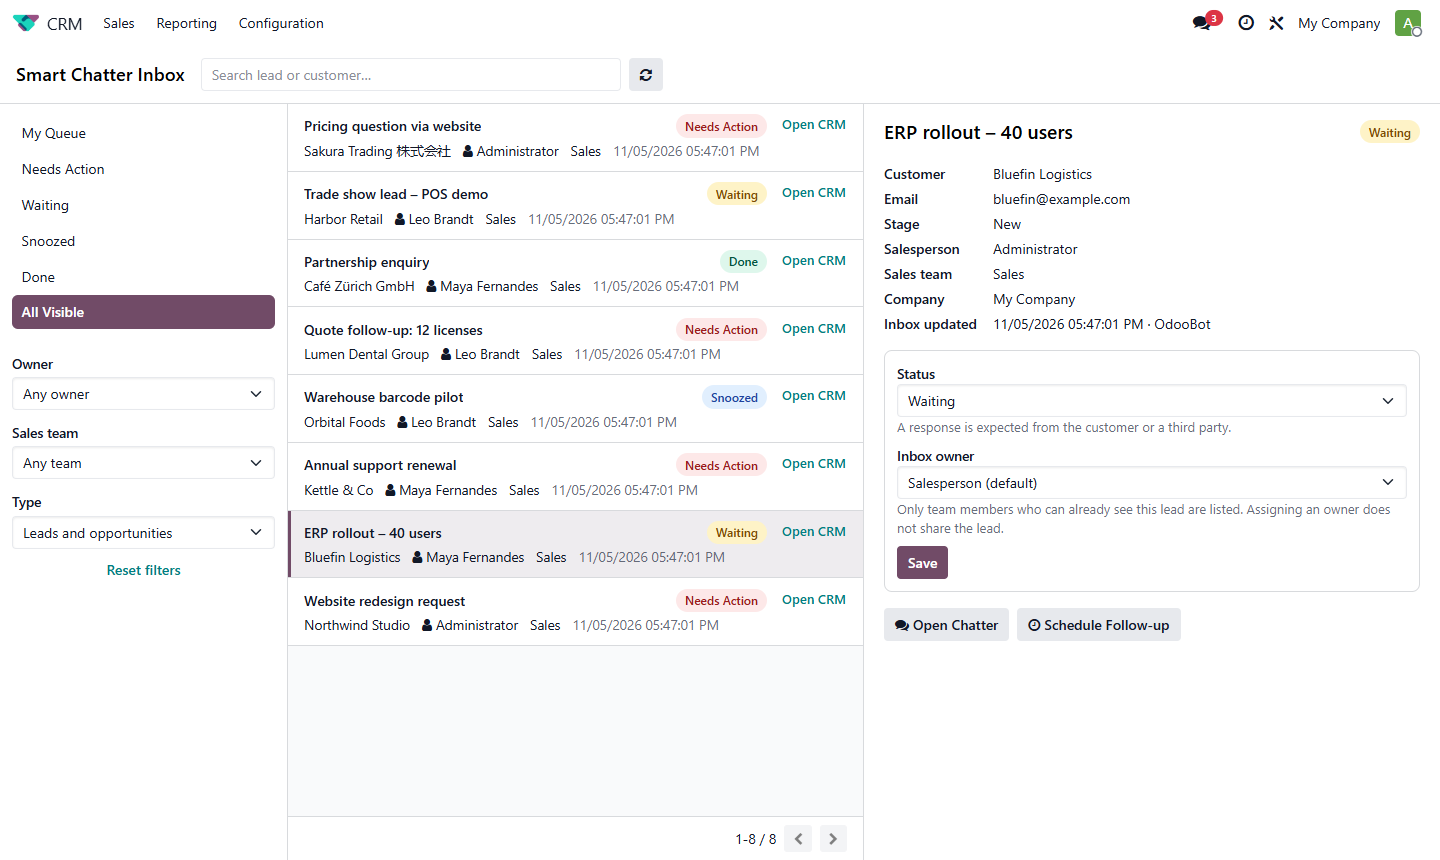
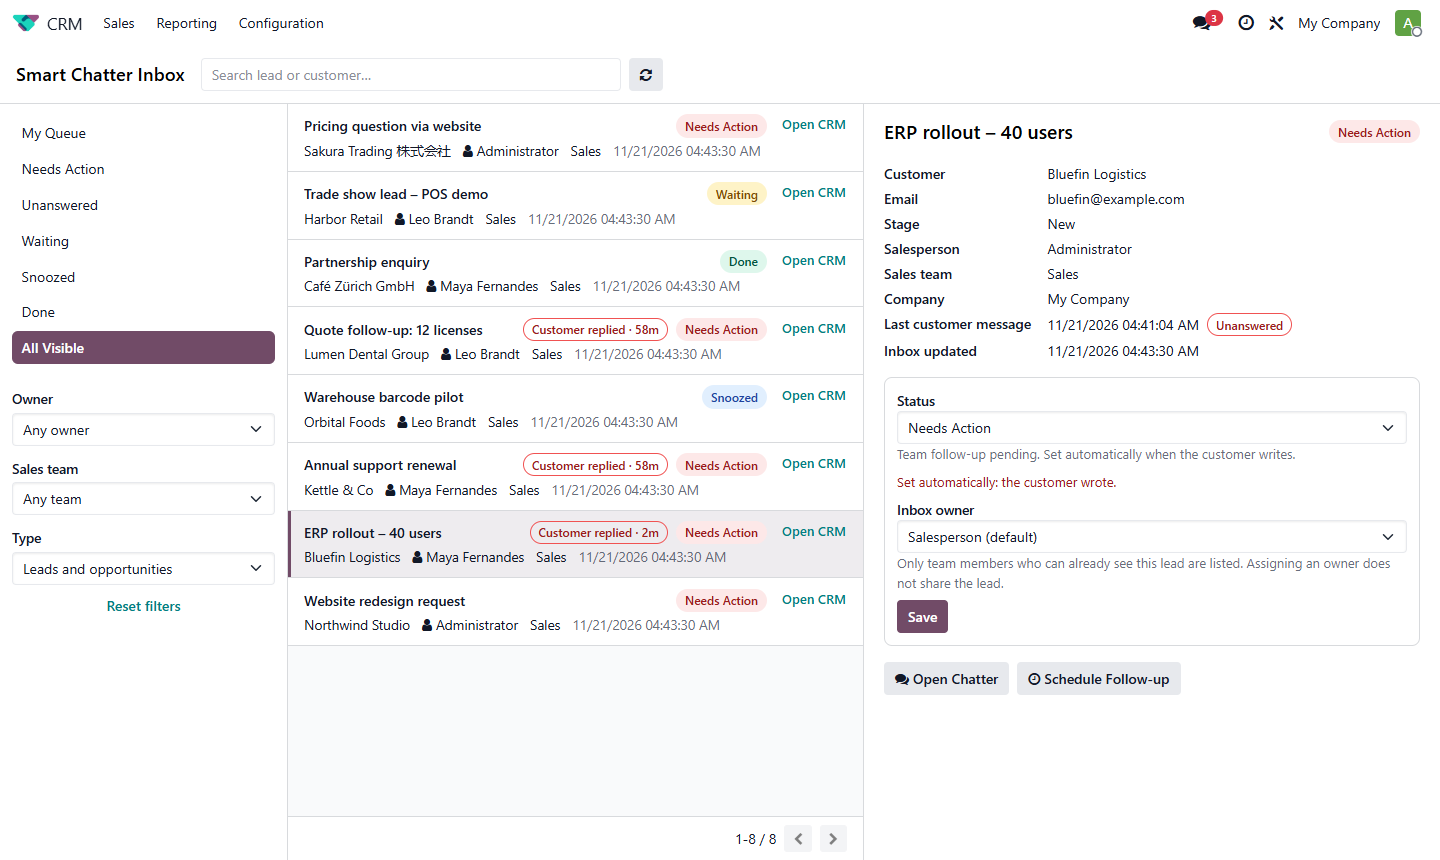
Store listing: Unanswered Leads name, reply-detection demo
- Name "CRM Follow Up Inbox | Unanswered Leads, Reminder & Snooze" and
  summary with "unanswered customer emails" / "unanswered leads"
- Store page: new DETECT demo (gif_reply.gif, a real customer email through
  the mail gateway), Unanswered feature card, two comparison rows, FAQ
  rewritten (how detection works, 17/18 out-of-office caveat), security
  text no longer claims zero privileged code
- hero.png subtitle and numbers.png stats (55+ tests, 4 Odoo versions)
- All GIFs and screenshots re-recorded on 19 with the Unanswered filter
- record_gifs.py: reply scene, snooze date relative to today
- seed_demo.py: restore customer-reply flags on re-run instead of posting
  duplicate emails

diff --git a/sd_smart_chatter_inbox/static/description/index.html b/sd_smart_chatter_inbox/static/description/index.html
@@ -5,8 +5,8 @@
 <!-- ============ HERO ============ -->
 <section class="oe_container" style="padding: 0 0 8px;">
     <img src="hero.png" alt="CRM Follow Up Inbox for Odoo: never lose a lead follow up again. $19 one-time." style="width: 100%; display: block; border-radius: 16px;"/>
-    <h1 style="text-align: center; color: #111827; font-size: 32px; font-weight: 800; margin: 26px 0 6px;">CRM Follow Up Inbox for Odoo: never miss a lead follow up</h1>
-    <p style="text-align: center; color: #4b5563; font-size: 17px; line-height: 1.6; max-width: 820px; margin: 0 auto;">One follow up queue for your whole sales team. See which leads need a reply from you, which are waiting for the customer, snooze a lead until the day you need it, and assign a follow up owner. Works inside Odoo CRM.</p>
+    <h1 style="text-align: center; color: #111827; font-size: 32px; font-weight: 800; margin: 26px 0 6px;">CRM Follow Up Inbox for Odoo: no more unanswered leads</h1>
+    <p style="text-align: center; color: #4b5563; font-size: 17px; line-height: 1.6; max-width: 820px; margin: 0 auto;">One lead follow up queue for your whole sales team. When a customer emails, the lead jumps back to <b>Needs Action</b> and appears in the <b>Unanswered</b> list. When your team replies, it moves to <b>Waiting</b>. Snooze a lead until the day you need it and assign a follow up owner. Works inside Odoo CRM.</p>
     <div style="max-width: 1000px; margin: 22px auto 0; border: 1px solid #c7d2fe; border-radius: 14px; padding: 8px; box-shadow: 0 10px 30px rgba(49,46,129,.18);">
         <img src="gif_filters.gif" alt="Odoo CRM lead follow up queue: search and filter leads by status, owner and team" style="width: 100%; display: block; border-radius: 8px;"/>
     </div>
@@ -33,7 +33,7 @@
             <div style="height: 100%; border: 1px solid #e0e7ff; border-top: 4px solid #4f46e5; border-radius: 12px; padding: 22px;">
                 <p style="font-size: 30px; margin: 0 0 8px;">&#128101;</p>
                 <h3 style="font-size: 20px; font-weight: 700; color: #312e81; margin: 0 0 8px;">Sales teams</h3>
-                <p style="color: #4b5563; font-size: 15px; line-height: 1.6; margin: 0;">Everyone sees which leads are waiting on <b>us</b> and which are waiting on the <b>customer</b>. No more "did anyone reply to this?"</p>
+                <p style="color: #4b5563; font-size: 15px; line-height: 1.6; margin: 0;">Everyone sees which leads are waiting on <b>us</b> and which are waiting on the <b>customer</b>. Customer replies are flagged automatically, so nobody has to ask "did anyone reply to this?"</p>
             </div>
         </div>
         <div class="col-md-4" style="padding: 8px;">
@@ -59,22 +59,29 @@
     <h2 style="text-align: center; color: #111827; font-size: 30px; font-weight: 700; margin: 4px 0 6px;">See it actually happen</h2>
     <p style="text-align: center; color: #4b5563; font-size: 16px; margin: 0 0 28px;">Recorded in a real Odoo database. No mock-ups.</p>
 
+    <div style="border: 1px solid #e0e7ff; border-left: 5px solid #dc2626; border-radius: 12px; padding: 22px; margin-bottom: 26px;">
+        <p style="margin: 0;"><span style="display: inline-block; border: 2px solid #dc2626; color: #dc2626; font-weight: 700; font-size: 13px; padding: 2px 12px; border-radius: 14px;">1 &middot; DETECT</span></p>
+        <h3 style="font-size: 22px; font-weight: 700; color: #111827; margin: 12px 0 6px;">Unanswered leads come back by themselves</h3>
+        <p style="color: #4b5563; font-size: 15px; line-height: 1.6; margin: 0 0 16px;">A customer replies to a lead that was Waiting. The email arrives through Odoo's normal incoming mail, and the lead goes straight back to <b>Needs Action</b> with a <b>Customer replied</b> flag and how long ago they wrote. When your team answers from the chatter, it moves to <b>Waiting</b> again. No one has to triage it by hand.</p>
+        <img src="gif_reply.gif" alt="Odoo CRM unanswered leads: a customer email moves the lead back to Needs Action automatically" style="width: 100%; border-radius: 8px; border: 1px solid #e5e7eb;"/>
+    </div>
+
     <div style="border: 1px solid #e0e7ff; border-left: 5px solid #4f46e5; border-radius: 12px; padding: 22px; margin-bottom: 26px;">
-        <p style="margin: 0;"><span style="display: inline-block; border: 2px solid #4f46e5; color: #4f46e5; font-weight: 700; font-size: 13px; padding: 2px 12px; border-radius: 14px;">1 &middot; TRIAGE</span></p>
+        <p style="margin: 0;"><span style="display: inline-block; border: 2px solid #4f46e5; color: #4f46e5; font-weight: 700; font-size: 13px; padding: 2px 12px; border-radius: 14px;">2 &middot; TRIAGE</span></p>
         <h3 style="font-size: 22px; font-weight: 700; color: #111827; margin: 12px 0 6px;">Set a status and an owner in two clicks</h3>
         <p style="color: #4b5563; font-size: 15px; line-height: 1.6; margin: 0 0 16px;">Select a lead, choose <b>Waiting</b>, pick a team-mate as follow up owner and save. It moves out of Needs Action straight away.</p>
         <img src="gif_triage.gif" alt="Set lead follow up status and follow up owner in Odoo CRM" style="width: 100%; border-radius: 8px; border: 1px solid #e5e7eb;"/>
     </div>
 
     <div style="border: 1px solid #e0e7ff; border-left: 5px solid #2563eb; border-radius: 12px; padding: 22px; margin-bottom: 26px;">
-        <p style="margin: 0;"><span style="display: inline-block; border: 2px solid #2563eb; color: #2563eb; font-weight: 700; font-size: 13px; padding: 2px 12px; border-radius: 14px;">2 &middot; SNOOZE</span></p>
+        <p style="margin: 0;"><span style="display: inline-block; border: 2px solid #2563eb; color: #2563eb; font-weight: 700; font-size: 13px; padding: 2px 12px; border-radius: 14px;">3 &middot; SNOOZE</span></p>
         <h3 style="font-size: 22px; font-weight: 700; color: #111827; margin: 12px 0 6px;">Snooze a lead: a follow up reminder for the right day</h3>
         <p style="color: #4b5563; font-size: 15px; line-height: 1.6; margin: 0 0 16px;">Pick a date and time in your own time zone. When it is due, the lead returns to Needs Action by itself. No scheduled job to configure.</p>
         <img src="gif_snooze.gif" alt="Snooze an Odoo CRM lead until a date and time: follow up reminder" style="width: 100%; border-radius: 8px; border: 1px solid #e5e7eb;"/>
     </div>
 
     <div style="border: 1px solid #e0e7ff; border-left: 5px solid #16a34a; border-radius: 12px; padding: 22px; margin-bottom: 26px;">
-        <p style="margin: 0;"><span style="display: inline-block; border: 2px solid #16a34a; color: #16a34a; font-weight: 700; font-size: 13px; padding: 2px 12px; border-radius: 14px;">3 &middot; ACT</span></p>
+        <p style="margin: 0;"><span style="display: inline-block; border: 2px solid #16a34a; color: #16a34a; font-weight: 700; font-size: 13px; padding: 2px 12px; border-radius: 14px;">4 &middot; ACT</span></p>
         <h3 style="font-size: 22px; font-weight: 700; color: #111827; margin: 12px 0 6px;">Schedule a follow up activity or reply in the chatter</h3>
         <p style="color: #4b5563; font-size: 15px; line-height: 1.6; margin: 0 0 16px;"><b>Schedule Follow-up</b> opens Odoo's own activity dialog. <b>Open Chatter</b> takes you to the lead, where you reply exactly as you do today.</p>
         <img src="gif_chatter.gif" alt="Schedule a follow up activity and open the lead chatter in Odoo" style="width: 100%; border-radius: 8px; border: 1px solid #e5e7eb;"/>
@@ -82,7 +89,7 @@
 
     <div class="row" style="margin: 0; border: 1px solid #e0e7ff; border-left: 5px solid #db2777; border-radius: 12px; padding: 22px 10px; align-items: center;">
         <div class="col-md-6" style="padding: 12px;">
-            <p style="margin: 0;"><span style="display: inline-block; border: 2px solid #db2777; color: #db2777; font-weight: 700; font-size: 13px; padding: 2px 12px; border-radius: 14px;">4 &middot; ON THE GO</span></p>
+            <p style="margin: 0;"><span style="display: inline-block; border: 2px solid #db2777; color: #db2777; font-weight: 700; font-size: 13px; padding: 2px 12px; border-radius: 14px;">5 &middot; ON THE GO</span></p>
             <h3 style="font-size: 22px; font-weight: 700; color: #111827; margin: 12px 0 6px;">Works on phones and tablets</h3>
             <p style="color: #4b5563; font-size: 15px; line-height: 1.6; margin: 0;">Three panes on desktop, a filter drawer on tablets, and a simple list-then-details flow on phones. Clear your queue from anywhere.</p>
         </div>
@@ -107,7 +114,7 @@
             <div style="height: 100%; border: 2px solid #c7d2fe; border-radius: 12px; padding: 22px;">
                 <p style="font-size: 40px; font-weight: 800; margin: 0; color: #4f46e5; line-height: 1;">02</p>
                 <h3 style="color: #111827; font-size: 20px; font-weight: 700; margin: 10px 0 6px;">Fill the queue</h3>
-                <p style="color: #4b5563; font-size: 15px; line-height: 1.6; margin: 0;">Turn on <b>Include untriaged leads</b> in CRM Settings, or set a status on the <b>Smart Inbox</b> tab of any lead.</p>
+                <p style="color: #4b5563; font-size: 15px; line-height: 1.6; margin: 0;">Customer emails add leads to the queue by themselves. To start with every open lead, turn on <b>Include untriaged leads</b> in CRM Settings.</p>
             </div>
         </div>
         <div class="col-md-4" style="padding: 8px;">
@@ -122,11 +129,14 @@
 
 <!-- ============ FEATURES ============ -->
 <section class="oe_container" style="padding: 44px 12px 8px;">
-    <h2 style="text-align: center; color: #111827; font-size: 30px; font-weight: 700; margin: 0 0 6px;">Lead follow up features: reminder, snooze, owner</h2>
+    <h2 style="text-align: center; color: #111827; font-size: 30px; font-weight: 700; margin: 0 0 6px;">Lead follow up features: unanswered leads, reminder, snooze, owner</h2>
     <p style="text-align: center; color: #4b5563; font-size: 16px; margin: 0 0 24px;">Nothing it doesn't.</p>
     <div class="row" style="margin: 0;">
         <div class="col-md-4 col-sm-6" style="padding: 8px;"><div style="height: 100%; border: 1px solid #e5e7eb; border-radius: 12px; padding: 18px;">
-            <h4 style="font-size: 17px; font-weight: 700; color: #111827; margin: 0 0 6px;"><span style="color: #dc2626;">&#9679;</span> Four clear statuses</h4>
+            <h4 style="font-size: 17px; font-weight: 700; color: #111827; margin: 0 0 6px;"><span style="color: #dc2626;">&#9679;</span> Unanswered leads, detected automatically</h4>
+            <p style="color: #4b5563; font-size: 14px; line-height: 1.6; margin: 0;">A customer email moves the lead to Needs Action and the <b>Unanswered</b> list. Your team's reply moves it to Waiting. Notes, automated emails and mass mailings are ignored.</p></div></div>
+        <div class="col-md-4 col-sm-6" style="padding: 8px;"><div style="height: 100%; border: 1px solid #e5e7eb; border-radius: 12px; padding: 18px;">
+            <h4 style="font-size: 17px; font-weight: 700; color: #111827; margin: 0 0 6px;"><span style="color: #d97706;">&#9679;</span> Four clear statuses</h4>
             <p style="color: #4b5563; font-size: 14px; line-height: 1.6; margin: 0;">Needs Action, Waiting, Done and Snoozed, plus quick views for <b>My Queue</b> and <b>All Visible</b>.</p></div></div>
         <div class="col-md-4 col-sm-6" style="padding: 8px;"><div style="height: 100%; border: 1px solid #e5e7eb; border-radius: 12px; padding: 18px;">
             <h4 style="font-size: 17px; font-weight: 700; color: #111827; margin: 0 0 6px;"><span style="color: #4f46e5;">&#9679;</span> Follow up owner</h4>
@@ -144,9 +154,6 @@
             <h4 style="font-size: 17px; font-weight: 700; color: #111827; margin: 0 0 6px;"><span style="color: #7c3aed;">&#9679;</span> Status on the lead form</h4>
             <p style="color: #4b5563; font-size: 14px; line-height: 1.6; margin: 0;">A <b>Smart Inbox</b> tab on every lead lets you triage it without leaving the form.</p></div></div>
         <div class="col-md-4 col-sm-6" style="padding: 8px;"><div style="height: 100%; border: 1px solid #e5e7eb; border-radius: 12px; padding: 18px;">
-            <h4 style="font-size: 17px; font-weight: 700; color: #111827; margin: 0 0 6px;"><span style="color: #dc2626;">&#9679;</span> Keyboard friendly</h4>
-            <p style="color: #4b5563; font-size: 14px; line-height: 1.6; margin: 0;">Arrow keys move through the list, focus is always visible, and screen readers get proper labels.</p></div></div>
-        <div class="col-md-4 col-sm-6" style="padding: 8px;"><div style="height: 100%; border: 1px solid #e5e7eb; border-radius: 12px; padding: 18px;">
             <h4 style="font-size: 17px; font-weight: 700; color: #111827; margin: 0 0 6px;"><span style="color: #4f46e5;">&#9679;</span> Multi-company aware</h4>
             <p style="color: #4b5563; font-size: 14px; line-height: 1.6; margin: 0;">Only companies enabled in the company switcher are shown, and the company filter respects them.</p></div></div>
         <div class="col-md-4 col-sm-6" style="padding: 8px;"><div style="height: 100%; border: 1px solid #e5e7eb; border-radius: 12px; padding: 18px;">
@@ -157,7 +164,7 @@
 
 <!-- ============ NUMBERS ============ -->
 <section class="oe_container" style="padding: 44px 12px 8px;">
-    <img src="numbers.png" alt="$19 one-time, under 100 ms server time per page, under 10 SQL queries per page, 40 automated tests, 0 sudo calls" style="width: 100%; display: block; border-radius: 16px;"/>
+    <img src="numbers.png" alt="$19 one-time, under 100 ms server time per page, under 10 SQL queries per page, 55+ automated tests, 4 Odoo versions: 17 to 20" style="width: 100%; display: block; border-radius: 16px;"/>
     <p style="text-align: center; color: #6b7280; font-size: 13px; margin: 10px 0 0;">Measured on a test database with 10,000 opportunities and 100,000 chatter messages (server-side, p95).</p>
 </section>
 
@@ -167,7 +174,7 @@
         <div class="col-md-6" style="padding: 12px;">
             <p style="color: #4f46e5; font-weight: 700; letter-spacing: .12em; font-size: 13px; margin: 0;">SECURITY &amp; GOVERNANCE</p>
             <h2 style="color: #111827; font-size: 28px; font-weight: 700; margin: 6px 0 12px;">It never shows more than Odoo already allows</h2>
-            <p style="color: #4b5563; font-size: 15px; line-height: 1.65; margin: 0;">Every list, count, filter and update runs as the logged-in user with your normal access rights and record rules. The app has no superuser shortcuts, so a salesperson who can only see their own leads sees only their own leads here too.</p>
+            <p style="color: #4b5563; font-size: 15px; line-height: 1.65; margin: 0;">Every list, count, filter and update runs as the logged-in user with your normal access rights and record rules, so a salesperson who can only see their own leads sees only their own leads here too. The one privileged step is reply detection: when a message is posted on a lead, it updates that lead's own follow up status, and shows nothing to anyone.</p>
         </div>
         <div class="col-md-6" style="padding: 12px;">
             <div style="border: 1px solid #e0e7ff; border-left: 4px solid #4f46e5; border-radius: 10px; padding: 11px 14px; margin-bottom: 8px; color: #1f2937; font-size: 15px;">&#128274; Respects record rules, multi-company and team visibility</div>
@@ -190,6 +197,8 @@
                 <th style="padding: 14px; text-align: center; color: #312e81; font-weight: 700;">With this app</th>
             </tr>
             <tr style="border-bottom: 1px solid #e5e7eb;"><td style="padding: 12px 14px; color: #1f2937;">Which conversations are waiting on us?</td><td style="padding: 12px 14px; text-align: center; color: #9ca3af;">Open each lead</td><td style="padding: 12px 14px; text-align: center; color: #15803d; font-weight: 700;">&#10003; Needs Action list</td></tr>
+            <tr style="border-bottom: 1px solid #e5e7eb;"><td style="padding: 12px 14px; color: #1f2937;">Which leads did the customer reply to?</td><td style="padding: 12px 14px; text-align: center; color: #9ca3af;">Open each lead</td><td style="padding: 12px 14px; text-align: center; color: #15803d; font-weight: 700;">&#10003; Unanswered list</td></tr>
+            <tr style="border-bottom: 1px solid #e5e7eb;"><td style="padding: 12px 14px; color: #1f2937;">Move a lead back when the customer writes?</td><td style="padding: 12px 14px; text-align: center; color: #9ca3af;">By hand</td><td style="padding: 12px 14px; text-align: center; color: #15803d; font-weight: 700;">&#10003; Automatic</td></tr>
             <tr style="border-bottom: 1px solid #e5e7eb;"><td style="padding: 12px 14px; color: #1f2937;">Which ones are waiting on the customer?</td><td style="padding: 12px 14px; text-align: center; color: #9ca3af;">Not tracked</td><td style="padding: 12px 14px; text-align: center; color: #15803d; font-weight: 700;">&#10003; Waiting list</td></tr>
             <tr style="border-bottom: 1px solid #e5e7eb;"><td style="padding: 12px 14px; color: #1f2937;">Who is following this up?</td><td style="padding: 12px 14px; text-align: center; color: #9ca3af;">Salesperson only</td><td style="padding: 12px 14px; text-align: center; color: #15803d; font-weight: 700;">&#10003; Separate follow up owner</td></tr>
             <tr style="border-bottom: 1px solid #e5e7eb;"><td style="padding: 12px 14px; color: #1f2937;">Hide it until next Tuesday at 10:00?</td><td style="padding: 12px 14px; text-align: center; color: #9ca3af;">&#10007;</td><td style="padding: 12px 14px; text-align: center; color: #15803d; font-weight: 700;">&#10003; Snooze</td></tr>
@@ -213,7 +222,7 @@
 <!-- ============ ALSO KNOWN AS ============ -->
 <section class="oe_container" style="padding: 32px 12px 0;">
     <div style="max-width: 880px; margin: 0 auto; border: 1px dashed #c7d2fe; border-radius: 12px; padding: 16px 18px;">
-        <p style="color: #4b5563; font-size: 15px; line-height: 1.7; margin: 0;"><b style="color: #312e81;">Looking for something else by name?</b> Teams use this app as a <b>sales follow up tracker</b>, <b>lead follow up reminder</b>, <b>CRM to-do list</b>, <b>shared sales inbox</b>, <b>lead snooze</b>, <b>follow up management</b> and <b>CRM activity queue</b> for Odoo 17, 18, 19 and 20, Community and Enterprise.</p>
+        <p style="color: #4b5563; font-size: 15px; line-height: 1.7; margin: 0;"><b style="color: #312e81;">Looking for something else by name?</b> Teams use this app as an <b>unanswered leads list</b>, <b>customer reply tracker</b>, <b>sales follow up tracker</b>, <b>lead follow up reminder</b>, <b>CRM to-do list</b>, <b>shared sales inbox</b>, <b>lead snooze</b>, <b>follow up management</b> and <b>CRM activity queue</b> for Odoo 17, 18, 19 and 20, Community and Enterprise.</p>
     </div>
 </section>
 
@@ -222,12 +231,16 @@
     <h2 style="text-align: center; color: #111827; font-size: 28px; font-weight: 700; margin: 0 0 22px;">FAQ</h2>
     <div style="max-width: 880px; margin: 0 auto;">
         <div style="border: 1px solid #e5e7eb; border-radius: 12px; padding: 16px 18px; margin-bottom: 10px;">
-            <p style="font-weight: 700; color: #312e81; font-size: 16px; margin: 0 0 6px;">Does it read or send emails?</p>
-            <p style="color: #4b5563; font-size: 15px; line-height: 1.6; margin: 0;">No. It does not connect to Gmail, Outlook or IMAP and sends nothing. Your team replies in the lead's chatter exactly as before. The statuses are your team's own workflow; the app does not guess whether an email was answered.</p>
+            <p style="font-weight: 700; color: #312e81; font-size: 16px; margin: 0 0 6px;">How does it know a lead is unanswered?</p>
+            <p style="color: #4b5563; font-size: 15px; line-height: 1.6; margin: 0;">It looks at who wrote the last message on the lead. A customer email that reaches the lead through Odoo's normal incoming mail (your mail alias or mail server) flags it <b>Unanswered</b> and moves it to Needs Action. A message your team sends from the chatter moves it to Waiting. Internal notes, automated emails, mass mailings and OdooBot are ignored. It does not track whether an email was opened. On Odoo 17 and 18, out-of-office auto-replies also count as a customer message. You can turn detection off in CRM Settings.</p>
+        </div>
+        <div style="border: 1px solid #e5e7eb; border-radius: 12px; padding: 16px 18px; margin-bottom: 10px;">
+            <p style="font-weight: 700; color: #312e81; font-size: 16px; margin: 0 0 6px;">Does it send emails or connect to Gmail or Outlook?</p>
+            <p style="color: #4b5563; font-size: 15px; line-height: 1.6; margin: 0;">No. It sends nothing and adds no mail connection. It works with the emails Odoo already logs on your leads, and your team replies in the lead's chatter exactly as before.</p>
         </div>
         <div style="border: 1px solid #e5e7eb; border-radius: 12px; padding: 16px 18px; margin-bottom: 10px;">
             <p style="font-weight: 700; color: #312e81; font-size: 16px; margin: 0 0 6px;">Why is my inbox empty after installing?</p>
-            <p style="color: #4b5563; font-size: 15px; line-height: 1.6; margin: 0;">Installing changes none of your existing leads. Turn on <b>Include untriaged leads</b> in CRM Settings to show every open lead, or set a status on a lead's <b>Smart Inbox</b> tab.</p>
+            <p style="color: #4b5563; font-size: 15px; line-height: 1.6; margin: 0;">Installing changes none of your existing leads and does not scan old emails. Leads join the queue when a customer writes next, or when you set a status on a lead's <b>Smart Inbox</b> tab. To see every open lead straight away, turn on <b>Include untriaged leads</b> in CRM Settings.</p>
         </div>
         <div style="border: 1px solid #e5e7eb; border-radius: 12px; padding: 16px 18px; margin-bottom: 10px;">
             <p style="font-weight: 700; color: #312e81; font-size: 16px; margin: 0 0 6px;">Who can use it?</p>

diff --git a/sd_smart_chatter_inbox/__manifest__.py b/sd_smart_chatter_inbox/__manifest__.py
@@ -1,6 +1,6 @@
 {
-    "name": "CRM Follow Up Inbox | Lead Follow Up, Reminder & Snooze",
-    "summary": "Lead follow up inbox for Odoo CRM: follow up reminder queue, snooze leads, assign follow up owner, track leads waiting for reply. Sales follow up tracker for teams.",
+    "name": "CRM Follow Up Inbox | Unanswered Leads, Reminder & Snooze",
+    "summary": "Lead follow up inbox for Odoo CRM: detects unanswered customer emails automatically, unanswered leads list, follow up reminder queue, snooze leads, assign follow up owner, track leads waiting for reply. Sales follow up tracker for teams.",
     "version": "18.0.1.1.0",
     "category": "Sales/CRM",
     "author": "Softdeviser",

diff --git a/sd_smart_chatter_inbox/CHANGELOG.md b/sd_smart_chatter_inbox/CHANGELOG.md
@@ -4,6 +4,7 @@
 
 - Reply detection: a customer email or message moves the lead to Needs Action and marks it "Customer replied"; a team reply from the chatter moves Needs Action to Waiting. Notes, automated messages, mass mailings and OdooBot are ignored.
 - New "Unanswered" quick filter, "Customer replied" chip with age, and last customer message / last team reply dates in the details pane and on the lead form.
+- Store listing renamed to "CRM Follow Up Inbox | Unanswered Leads, Reminder & Snooze", with a new reply-detection demo and re-recorded GIFs and screenshots.
 - New setting "Detect customer replies automatically" (on by default). Existing leads and old messages are not changed on upgrade.
 - Tests: 14 reply-detection tests through the real mail gateway, 2 more Hoot tests and a tour step.
 

diff --git a/sd_smart_chatter_inbox/README.md b/sd_smart_chatter_inbox/README.md
@@ -20,7 +20,7 @@ A CRM follow-up queue. Each lead or opportunity gets a follow-up status (**Needs
 
 ## Installation
 1. Copy `sd_smart_chatter_inbox` into a folder on your `addons_path`.
-2. Update the Apps list and install **CRM Follow Up Inbox | Lead Follow Up, Reminder & Snooze** (technical name `sd_smart_chatter_inbox`).
+2. Update the Apps list and install **CRM Follow Up Inbox | Unanswered Leads, Reminder & Snooze** (technical name `sd_smart_chatter_inbox`).
 3. Give users the group **Smart Chatter Inbox / User** (Settings > Users > Access Rights > Sales section). The administrator gets it on install.
 4. Optional: CRM > Configuration > Settings > **Include untriaged leads**. **Detect customer replies automatically** is on by default; it only reacts to messages posted after install.
 
